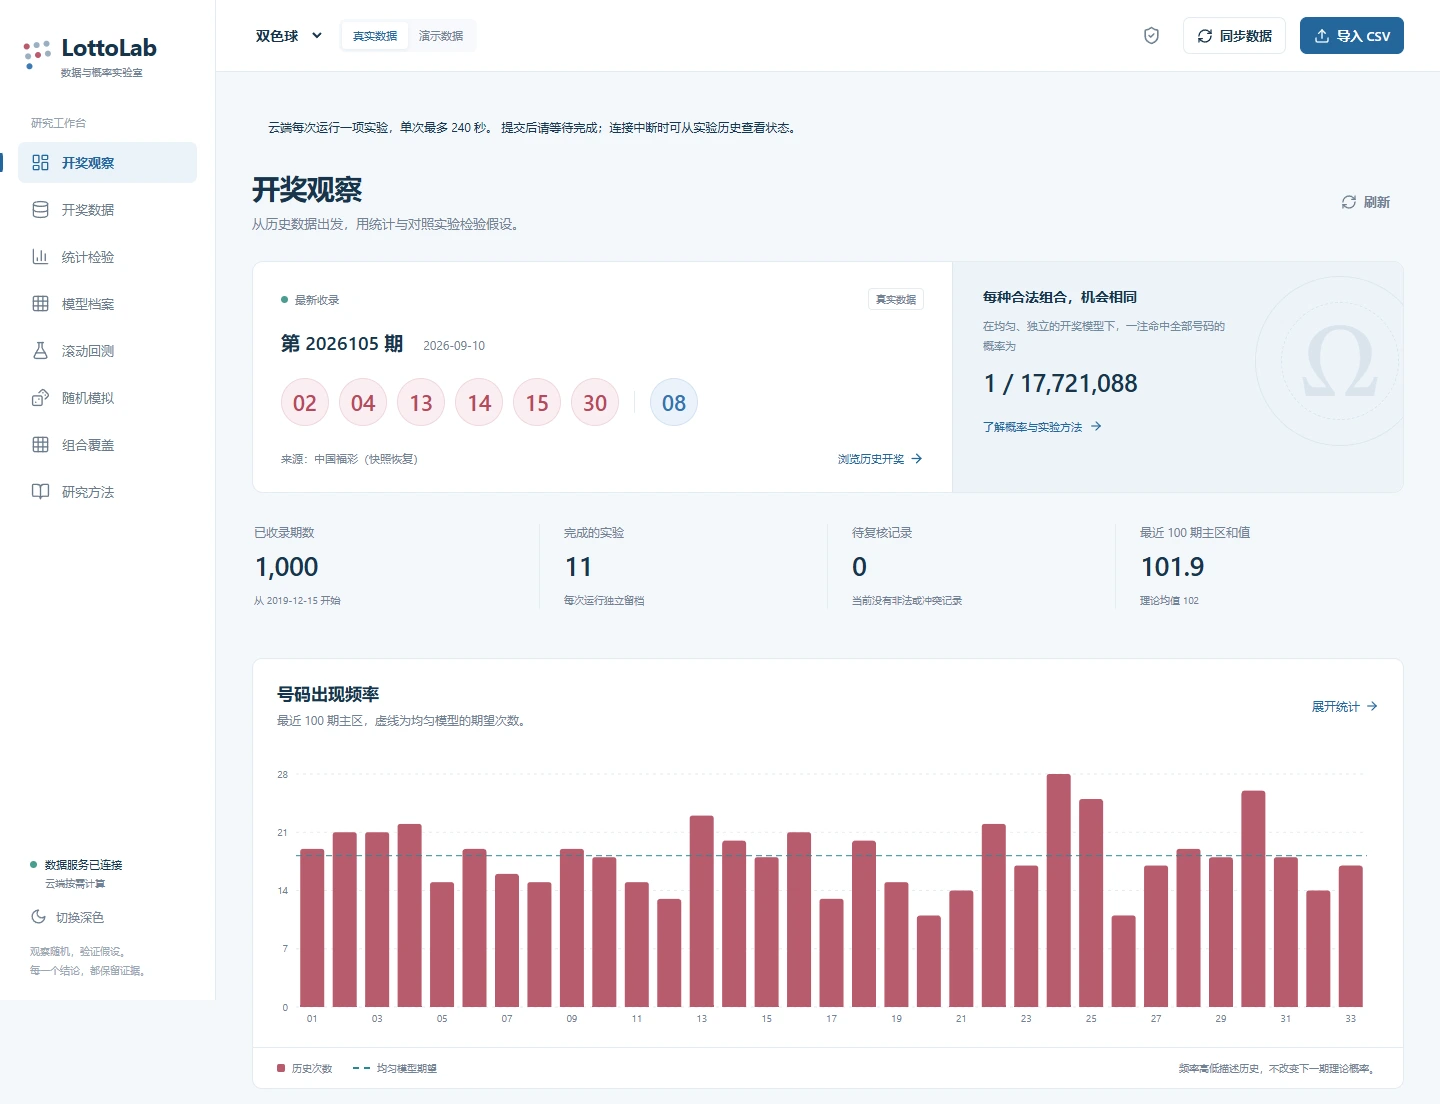
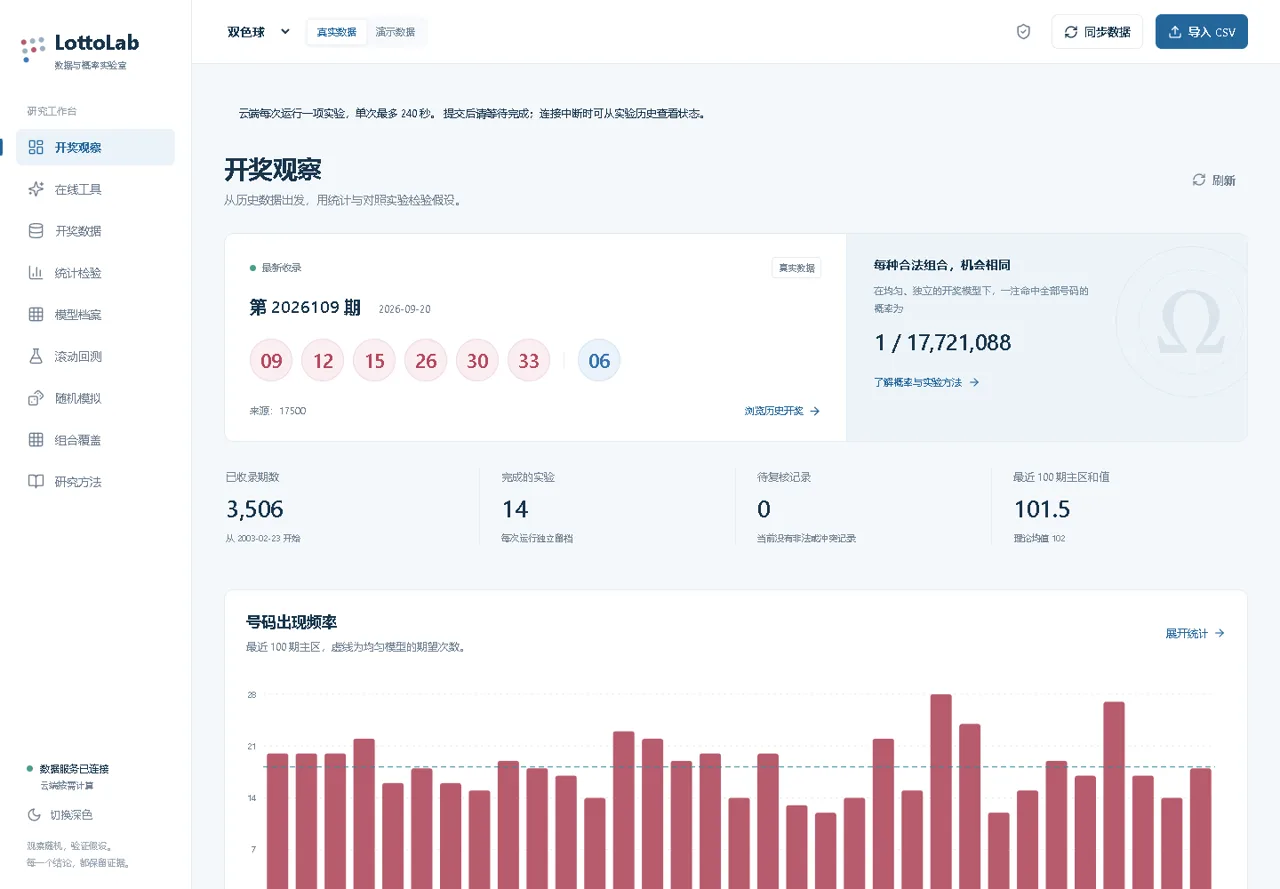
docs: 架构图 + 线上实拍截图与操作演示gif

diff --git a/README.md b/README.md
@@ -27,7 +27,9 @@
 
 [![LottoLab 开奖观察：最新开奖、数据范围与号码频率](docs/assets/workbench.webp)](docs/assets/workbench.webp)
 
-<p align="center"><sub>实际运行界面。截图中的期数与结果来自该实例，仓库不附带历史数据库。</sub></p>
+[![LottoLab 在线工具演示：推荐、策略回测、预测复盘与验奖](docs/assets/demo.gif)](docs/assets/demo.gif)
+
+<p align="center"><sub>线上实例实拍（2026-09-21）。截图中的期数与结果来自该实例，仓库不附带历史数据库。</sub></p>
 
 <details>
 <summary>查看移动端界面</summary>
@@ -74,6 +76,40 @@
 | 中奖 | 1 次（稳健·热号中六等奖） |
 
 样本尚小（n=7），0.857 低于期望属于正常波动；命中率应长期贴近随机期望——这正是台账存在的意义：自证，不美化。
+
+## 架构
+
+```mermaid
+flowchart LR
+  subgraph Client["浏览器"]
+    UI["React 单页 · 9 页面<br/>PWA / 深色 / 移动端"]
+  end
+  subgraph Edge["入口"]
+    CF["Cloudflare<br/>DNS + POST 限流"]
+    API["FastAPI<br/>GET 公开读 / POST 鉴权<br/>120 次/分/IP"]
+  end
+  subgraph Compute["计算"]
+    W["独立 worker<br/>顺序执行 · 8 项/600秒"]
+    R["请求内计算<br/>1 项/240秒"]
+  end
+  subgraph Store["存储"]
+    L["SQLite<br/>本地"]
+    P["PostgreSQL 17<br/>Docker"]
+    N["Neon PostgreSQL<br/>Vercel"]
+  end
+  subgraph Jobs["每日作业"]
+    S["daily-sync<br/>8 彩种入库"]
+    WN["daily-winners<br/>注数销量刷新"]
+    RV["snapshot_review<br/>复盘快照"]
+  end
+  UP["17500 / cwl / sporttery<br/>+ CSV 导入"] --> S & WN
+  UI --> CF --> API
+  API --> W & R
+  W & R --> L & P & N
+  S & WN & RV --> P & N
+```
+
+本地/Docker 走独立 worker，Vercel 走请求内计算；快照本地存文件、云端压缩入库。实验一律冻结数据并记录种子与代码指纹。
 
 ## 快速开始
 
